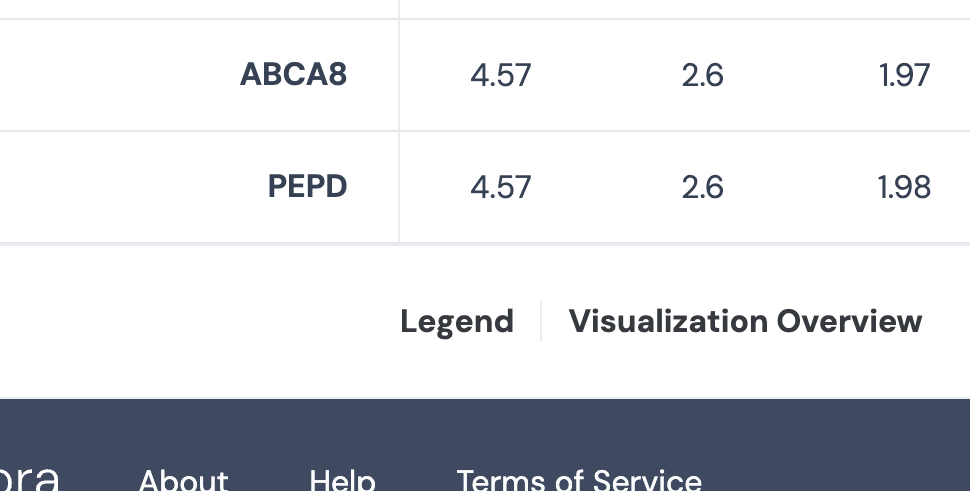
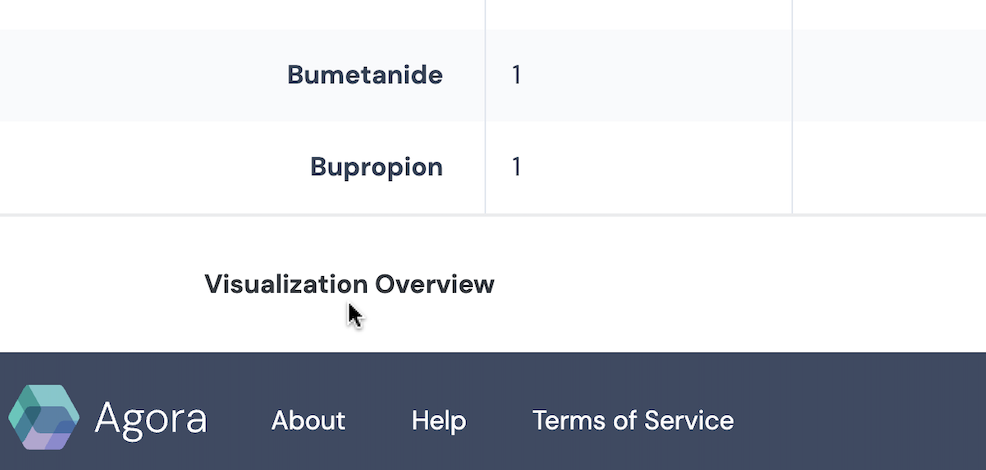
improvements from code review

diff --git a/libs/agora/config/src/lib/nominated-cts-visualization-overview.content.ts b/libs/agora/config/src/lib/nominated-cts-visualization-overview.content.ts
@@ -15,7 +15,7 @@ export const NOMINATED_CTS_VISUALIZATION_OVERVIEW_PANES: VisualizationOverviewPa
   },
   {
     heading: 'Build, share and export custom comparisons',
-    content: `<p>Pin up to 50 rows of results so that you can easily compare them. Once you've built your custom result set, you can share it with your colleagues by Share URL, download an image of the pinned results, and export the underlying data for further analysis.</p>
+    content: `<p>Pin up to 50 rows of results so that you can easily compare them. Once you've built your custom result set, you can share it with your colleagues by Share URL and export the underlying data for further analysis.</p>
       <div class="video-container"><video autoplay muted loop playsinline preload="none" controls><source src="agora-assets/videos/nomination-overview-3.mp4" type="video/mp4"></video></div>`,
   },
 ];

diff --git a/libs/explorers/testing/src/lib/mocks/visualization-overview-panes-mocks.ts b/libs/explorers/testing/src/lib/mocks/visualization-overview-panes-mocks.ts
@@ -16,7 +16,7 @@ export const mockVisualizationOverviewPanes: VisualizationOverviewPane[] = [
   },
   {
     heading: 'Build, share and export custom comparisons',
-    content: `<p>Pin up to 50 rows of results so that you can easily compare them. Once you've built your custom result set, you can share it with your colleagues by Share URL, download an image of the pinned results, and export the underlying data for further analysis.</p>
+    content: `<p>Pin up to 50 rows of results so that you can easily compare them. Once you've built your custom result set, you can share it with your colleagues by Share URL and export the underlying data for further analysis.</p>
       <div class="video-container"><video autoplay muted loop playsinline preload="none" controls><source src="model-ad-assets/videos/visualization-overview-3.mp4" type="video/mp4"></video></div>`,
   },
   {